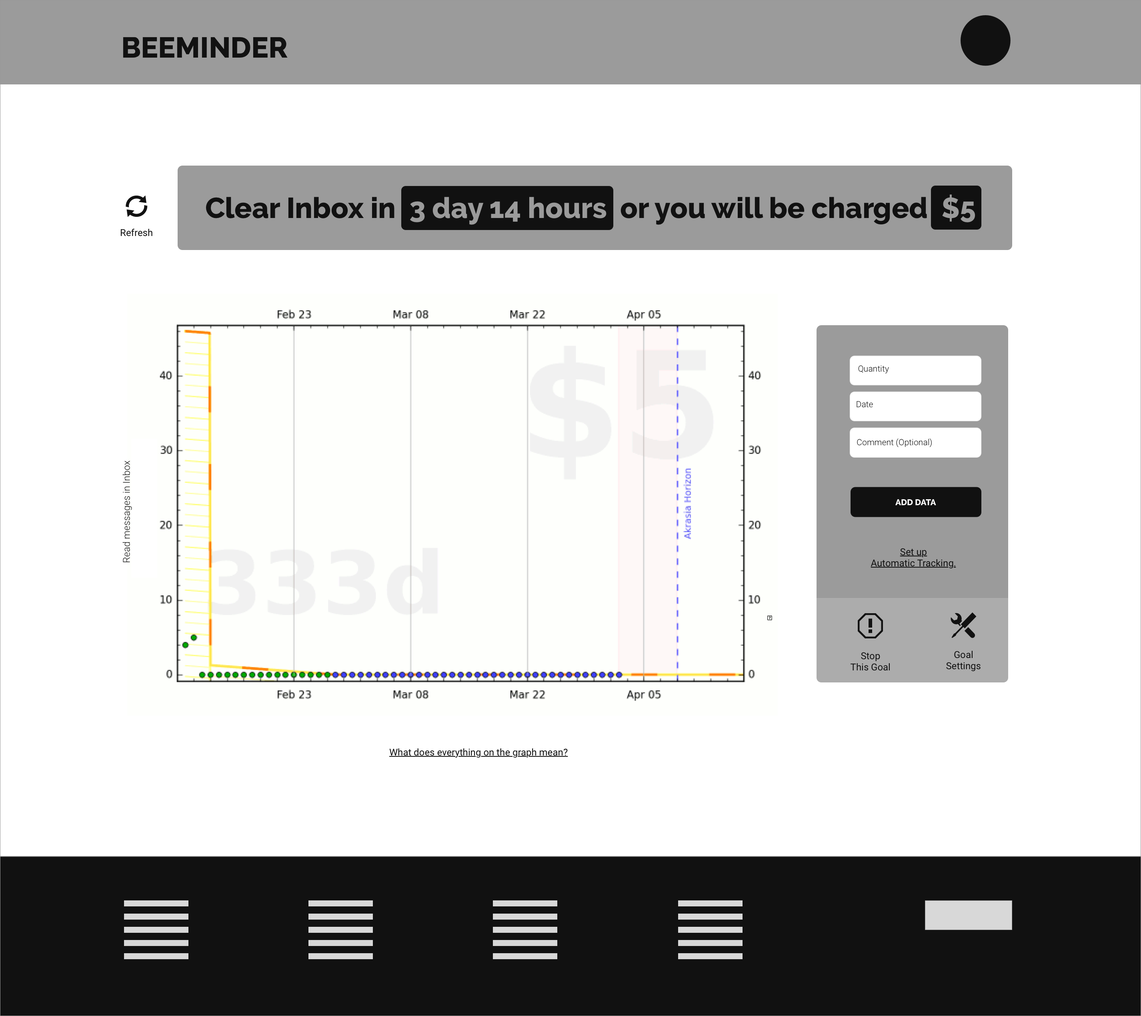
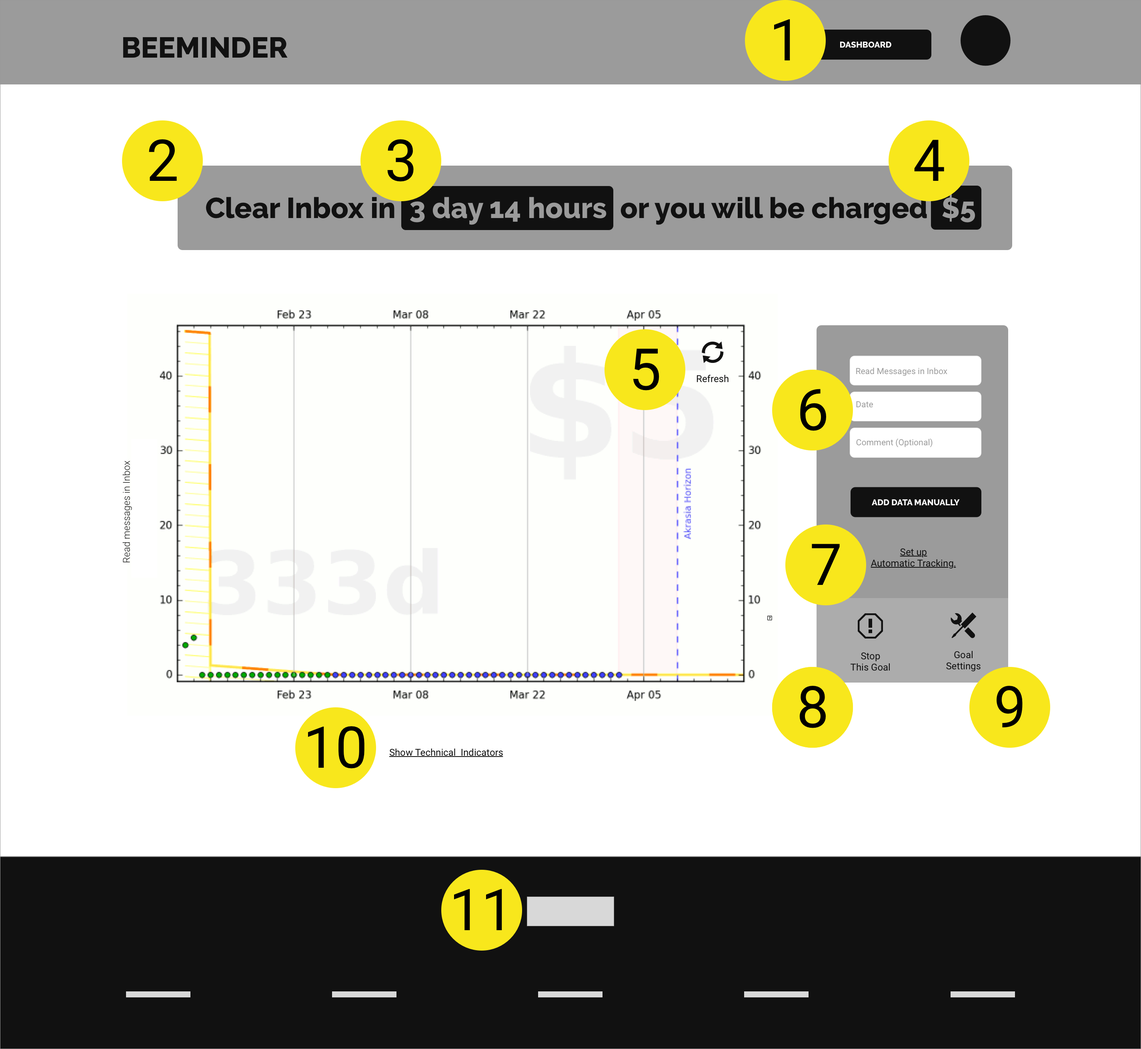
second draft

diff --git a/index.html b/index.html
@@ -41,9 +41,30 @@
           <div class='col-xs-8 col-xs-offset-2'>
             <h2>Hello,</h2>
             <br/>
-            <p> I’ve been working hard over the past 10 days trying to reimagine Beeminder so that it is easier to use. I have tried to redesign as little as possible, only changing things when the usability benefits outweigh the confusion of changing what
-              people are used to.
-            </p>
+            <p>I have been working hard over the past ten days to redesign Beeminder. My goal is to help people who are new to the concept of self quantification and commitment tracking.</p>
+
+            <p>This proposal is only meant to be a starting point. I do not know what the goals and problem cases are for Beeminder. The idea is build a brief for the project by using your reactions to this presentation.</p>
+
+            <p>The problem case driving this proposal is that I cannot share Beeminder with my friends. They either do not understand what it does or they are too intimidated to use it. </p>
+
+            <p>My point of view is biased. To make a stronger case I ran three twenty-minute usability tests to set a baseline for the project. I used TryMyUI.com for as unbiased an opinion as possible, given the time frame.</p>
+
+            <p>Each participant had three tasks:</p>
+            <ul>
+
+
+              <li>Task 1: Sign up and commit to clearing out your Gmail inbox at least 4 days a week.</li>
+
+              <li>Task2: Sign up and commit to walking 10,000 steps at least 5 days a week.</li>
+
+              <li>Task3: Change your inbox commitment to 5 days a week.</li>
+            </ul>
+
+            <p>0 participants were able to complete all three tasks in 20 minutes.</p>
+
+            <p>Instead of not accomplish the tasks, one participant silently failed. She believed she had connected her Gmail account when she had not.</p>
+
+            <p>I have linked to a dropbox with screen recordings of all three testing sessions at the end of the proposal. I have also included tester profiles and an executive summary.</p>
           </div>
         </div>
       </div>
@@ -53,65 +74,35 @@
       <div class="container">
         <div class='row'>
           <div class='col-xs-8 col-xs-offset-2'>
-            <h3>Why Reimagine?</h3>
-            <br/>
-            <p> A sampling of pages from the current interface shows inconsistency in design elements across pages.</p>
 
-            <br/>
-            <a href='#'>
-              <img src='img/old.png' class="img-responsive firstChoice" />
-            </a>
-            <br/>
-            <p>The need for stronger visual hierarchy coupled the variation in typeface sizing and spacing makes the interface feel like a collection of design fixes and additions built up over time. </p>
-
-
-            <p>I have focused a single function for this proposal. Being able to sign up and commit money to a goal.</p>
-
-            <hr/>
-            <h2>Commiting Money to a Goal</h2>
-            <br/>
-            <a href='#'>
-              <img src='img/flow.png' class="img-responsive firstChoice" /></a>
+            <h2>COMMITTING MNEY TO A GOAL</h2>
             <br/>
             <p>
-              Rather than tryng to reduce the number of steps to simplify the process, I propose increasing the number of possible steps by making each steps shorter and clearer.
+              I have focused a single user journey in this proposal: Being able to sign up and commit money to a goal.
               <p/>
+              <a href='#'>
+                <img src='img/flow.png' class="img-responsive firstChoice" /></a>
+              <br/>
+
               <p>
-                I ran three twenty minute unbiased usability tests to set a baseline for the project. I gave each participant three tasks:
+                Testing revealed that the biggest barrier in this user journey is the fork at step 3.
               </p>
-              <ul>
-                <li>Task1: Sign up and commit to clearing out your inbox at least 4 days a week.</li>
 
-                <li>Task2: Sign up and commit to walking 10,000 steps at least 5 days a week.</li>
+              <p> I suggest reducing options until users understand the conventions of the interface.</p>
 
-                <li>Task3: Change your inbox commitment to 5 days a week.</li>
-              </ul>
-              <br/>
-              <p> 0 participants were able to complete all three tasks in 20 minutes. What's worse is that rather than just not being able to accomplish the tasks, one participant silently failed, believing she had connected her gmail account when she did
-                not </p>
-              <br/>
-              <p>I have put screen recordings of all three testing sessions into a dropbox available at the end of teh proposal, along with tester profiles and an executive summary.
+              <p>You could also avoid potential errors by providing status indicators. As well as an undo button and feedback about the progress on each step.
                 <p/>
 
-                <p>The test revealed that the most salient problem with the user journey is that it forks at step 3 on the goal creation page.
+                <p>I also added a thank you to confirm completion.
                   <p/>
 
-                  <p>Hick’s Law states that time it takes for a user to make a decision depends on the number of choices available — the higher the number the longer the decision time.
-                    <p/>
+                  <br/>
+                  <a href='#'><img src='img/steps.png' class="img-responsive same" /></a>
+                  <br/>
+                  <p>The final screens for each of these steps are in the design proposal after the next section. </p>
 
-                    <p>Giving users multiple options (to select a type of goal or connect a tracker service) before they understand the conventions of an interface is easily avoidable.
-                      <p/>
-                      <p>I have tried to minimise teh number of call to actions on each page by breaking up the sign up process into a simple progression of short steps. Further minimising potential errors by providing status indicators, an undo button and
-                        feedback about the progress on each step.</p>
-                      <br/>
-
-                      <a href='#'><img src='img/steps.png' class="img-responsive same" /></a>
-
-                      <p> I have fleshe dout teh detailf for each of these steps in teh deisgn proposal afetr teh next section.
-
-                        <br/>
-                        <br/>
-
+                  <br/>
+                  <br/>
           </div>
         </div>
       </div>
@@ -121,60 +112,67 @@
       <div class="container">
         <div class='row'>
           <div class='col-xs-8 col-xs-offset-2'>
-            <h2>The Goal Page</h2>
-            <br/> Successfully signing up and commiting to provides users with the curret goal page.
+            <h2>THE GOAL PAGE</h2>
+            <p>Signing up and committing to a goal leaves users with the current goal page.</p>
             <a href='#'><img src='img/goal.png' class="img-responsive same" /></a>
             <br/>
 
-            <p>I've tried to reduce as many of the components on the page by coupling related functions together and providing a clearer sense fo hierarchyon teh page so that people knwo what tp look at first.</p>
-            <br/>
+            <p>I tried to group related items together so that it is easier to understand:</p>
 
+            <ul>
+              <li>What is happening,</li>
+              <li>What will happen,</li>
+              <li>When it will happen and,</li>
+              <li>What they need to do to prevent it from happening.</li>
+            </ul>
+
+            <p>This layout also allows keyboard-only users and people with vision impairments better access.</p>
+
+
+            <br/>
             <a href='#'><img src='img/wire.png' class="img-responsive same" /></a>
             <br/>
-            <p>Grouping relevant elemnets together and rearranging hierarchically also makes the site more accessible to keyboard only users people with vision impairments.
-              <p/>
 
+            <ol>
+              <li>Navigation: Clicking on the logo takes you home. The dashboard button button takes you to the dashboard. Everything else is inside the settings button. The look of the 'Dashboard' button is consistent with every button in the sign up process.
+                The dashboard becomes the first place you navigate back to when you get lost. I have also used circular profile pictures. Less background area means more focus on the face. A square profile picture displays more background area than a
+                circular one.</li>
 
-              <ol>
-                <li> Navigation: Clicking on the logo takes you home, the dashboard button button takes you to the dashboard and everything else is collapsed inside the settings button.</li>
-                <li> Progress Bar: Because the system is connected to a debit card, it is important to orientate users by explaining what is happening, what will happen, when it will happen and what they need to dp to prevent it from happening.</li>
-                <li>Deadlines : Retroratcheting and deadline adjustment can be accessed by clickingon teh coundown button.</li>
-                <li>Penalty Adjuster : Clicking on the amount button allows you to adjust your pledge.</li>
-                <li>Refresh : Ideally clicking on teh image would refresh the data, of thsi is not technically feasable then coulping teh refresh button with teh screen make makes it easier for the people who tabb through teh site the refresh data when they
-                  are accessing it.</li>
-                <li>Add Data: If a tracking service has not been setup then adding data because one of the primary reasons for using this page. Being able to add data on the goal page as well as 'quick add' on the dashboard minimizes teh time people need
-                  to spend looking for a way to add data to their goal</li>
+              <li>Progress Bar: The product works best when connected to a debit card. What people need to do to not be charged should be obvious. I have not spent much time on the wording, I'm sure it will change, I was just trying to make a point.</li>
 
-                <li>Automatic Tracking : Coupling this function just below data add component allow speople to discover what kinds of services tehy can connect fi they havn't already tried a data tracker. If a service is connected the thsi changes to 'Turn
-                  off automatic tracking'</li>
-                <li>Stop; Pausing and archiving goals can be done trhough a single stop thsi goal button. This provides a singel point of focus for people that are panicing and just want to stop everything.</li>
-                <li>Settings: All other page settings can be accessed through teh settinsg button.</li>
-                <li>technical indicators: Labelling all additional graphs 'technical' means that people who want additional information will be drawn to it and people who are intimidated by teh syetm will stay away from it.</li>
-                <li>Help; Using the footer for a single purpose menas that people know they can refer to teh footer when they have a problem. </li>
+              <li>Deadlines : Retro-ratcheting and deadlines can changed by clicking on the countdown button.</li>
 
+              <li>Penalty Adjuster : Clicking on the amount button allows you to adjust your pledge.</li>
 
-                <p>This why I have tried to </p>
+              <li>Refresh : Placing the refresh button beside the graph makes it easier for people to view the latest data when they tab through the page.</li>
+
+              <li>Add Data: If data is not tracked automatically, adding data becomes one of the primary reasons to use this page. Adding data from the goal page, as well as 'quick add' on the dashboard, minimises the time people need to spend looking for
+                a way to add data to the goal.</li>
+
+              <li>Automatic Tracking : If a service is connected during setup then this changes to 'Turn off automatic tracking'.</li>
+
+              <li>Stop: Pausing and archiving goals can be done through a single 'stop this goal' button. This provides a single point of focus for any kind of interruption.</li>
+
+              <li>General settings: All other page settings can be accessed through the settings button. I've provided icon labels and tried to use natural language where possible. Having fun names for things is much better than dry text but not at the expense
+                of understanding. </li>
+
+              <li>Technical indicators: Labelling additional indicator 'technical' means that people who want additional information will be drawn to it and people who are intimidated by the system will stay away from it.</li>
+              <br/>
+              <a href='#'><img src='img/technical.png' style='margin:0 auto' class="img-responsive same" /></a>
+<br/>
+              <li>
+                <p>Help: When usability testing the site I added a fourth task:</p>
+                <ul>
+                  <li>Task 4: Cancel both commitments and deactivate your account.</li>
+                </ul>
                 <br/>
 
-                <a href='#'><img src='img/technical.png' style='margin:0 auto' class="img-responsive same" /></a>
-                <br/>
-                <p>When usability testing teh site I added a fourth task:
-                </p>
-                <p>
-                  <strong>Task4</strong>: Cancel both commitments and deactivate your account.</p>
-                <p>
-                  Thsi task acnnot be completed. there is cirrently no way for someone to deactvate teh ccount. The reaosn I added this is is to see how long it would take someone to use the extensive FAQ and excellent support system you have developed.</p>
+                    <p>This task cannot be completed. There is currently no way for someone to deactivate the account. The reason I added this is to see how long it would take someone to use the your extensive FAQ and excellent support system.</p>
 
-                <p> The results indicates that because there are so many link in there are footer users fail to associate the footer with any relevant purpose. I propose to use the footer as a support panel by providing a single 'help button' taht redrect
-                  to a age with FAQ, Contact support and a link to teh forums. Other footer links match more conventional footer link names is that people who do use footers to use teh footer as a onventional footer are rediercted t teh appropriate location
-                  </p>
+                    <p>The results suggest that because there are too many links in the footer. Users fail to associate the footer with any relevant purpose. </p>
 
-                </li>
-
-                <ol>
-
-
-
+                    <p>Prioritising the footer for one purpose means that people know they can refer to the footer when they have a problem. The other link have been collapsed into more conventional link names that people are used to seeing in footers. Sticking
+                      to conventions where possible reduces the time it takes for people to find what they are looking for.</p>
           </div>
         </div>
       </div>
@@ -211,37 +209,43 @@
             <br/>
             <a href='#'><img src='img/screens.png' class="img-responsive same" /></a>
 
-            USING CURRENT THE CURRENT GRAPH
+            <h2>USING THE CURRENT GRAPHS</h2>
 
-            <p>Another great universal design principle we love is Fitts’s Law, which essentially says that the time required to move and interact with a target area is a function of the distance and size of the target. The closer and larger the target,
-              the faster the action. This is why we have increased the size of many UI elements, such as form fields, buttons, cards and links. Overall, it improves general usability (Fitts’s Law) and ease of use in touch-enabled platforms.</p>
+            <p>Things that do a good job of solving complex problems are usually complicated. </p>
+            <p>Your graphs complexity is key because it communicates a huge amount of useful information. </p>
+            <p>Sacrificing features for white space makes no sense when each feature solves a use case that someone cares about.</p>
+            <p>I made sure that the redesign works with the old graphs.</p>
             <br/>
             <br/>
 
             <a href='#'><img src='img/oldgoal.png' class="img-responsive same" /></a>
 
-            <p>TWO TYPFACES</p>
+  <p>If you want clearer graphs then I can put a lot more time into thinking about it. I would need to know how they are built, so that I don't propose a solution that is a nightmare to build.</p>
+    <p>My only suggestion at this point would be to match the typeface to the new interface. </p>
+      <p>Casually testing the interface, I found friends were sometimes way ahead of their goal but they thought they were off track because they were not on the yellow brick road. Adding a light green and red highlight to the backgrounds on either side of the yellow line would help make the graph easier to understand.</p>
+      <br/>
+            <h2>TWO TYPFACES</h2>
 
-            <p>The display font is Trueno Semi Bold. I wanted to select a typeface that was almost indistinguishle from you current logo typeface. I chose Trieno because of all teh options I shortlisted, this typeface’s letterforms had teh most space inside
-              each of teh letters. Wide apertures and the large counterforms result make a text more readable.</p>
+            <p>The display font is Trueno Semi Bold. I wanted to select a typeface that was indistinguishable from you current logo typeface. I chose Trueno because, of all the options I shortlisted, Trueno letterforms had the most space inside the letters. Wide apertures and the large counterforms make a text more readable.</p>
 
-            <p>Because there is a lot of text block on your website I searched for a typeface that readable in large blocks of text. It needed to match the display type but it also needed to work as in all caps.</p>
+            <p>I chose Roboto Regular as a body type because I needed a typeface that matched the display type and was also legible at small sizes and in large blocks of text.</p>
 
             <a href='#'><img src='img/type.png' class="img-responsive same" /></a>
             <br/>
 
-            <p>COLOURS</p>
+            <h2>COLOURS</h2>
 
-            <p>I've used the slightest hint of orange and green for success and danger notifiers but otehrwise I have stuck to a Monochromatic colour palette. </p>
 
-            <a href='#'><img src='img/colour.png' class="img-responsive same" /></a>
 
-            <p>For most part, color is associated with specific actions: error states, primary and secondary button press responses and controls. This makes these prominent and distinguishable from other surrounding elements without relying on colour for
-              teh site to make sense
-              <p/>
+            <p>Roughly 5% of the population are colour blind and over 60% do not have 20/20 vision. For this reason I have picked the highest contrast yellow and black combination I could find.</p>
 
-              <p>Using color sparingly, and with a defined and limited purpose means you the site can be used just as easily with a vision impairments.
-                <p/>
+            <p>I've used slight hints of orange and green for success and danger notifiers but otherwise I have stuck to a monochromatic colour palette.</p>
+            <br/>
+              <a href='#'><img src='img/colour.png' class="img-responsive same" /></a>
+
+            <p>For most part, colour is associated with specific actions: error states, primary and secondary button press responses and controls. </p>
+
+            <p>This makes things that need your attention prominent and distinguishable without relying on colour for the site to make sense.</p>
 
                 <a href='#'><img src='img/bw.png' class="img-responsive same" /></a>
           </div>
@@ -253,30 +257,20 @@
       <div class="container">
         <div class='row'>
           <div class='col-xs-8 col-xs-offset-2'>
-            <h2>Costs and Timeline</h2>
-            <p>This proposal is deisgned as a starting point. The idea is to use your reaction to the dierction I am proposing as a way to build a clear brief for the project. I need to understand what you wwant fo rteh interface, what your concerns are,
-              what kinds of design boundaries there are and limitations are on handling them.</p>
+            <h2>DELIVERABLES, COSTS AND TIME FRAME</h2>
+            <p>I have not tested the proposed interface and compared it to the baseline because I assume the final product won't look anything like what I am proposing.</p>
 
-            <br/>I did not test the new interface and compare the results to teh baselien because I relaise there is probably not going to looka anything like I am proposing. I wanted to show you that there are usablility problems, and I wnated to show you
-            how I would address these.
+            <p>I wanted to show you that there are usability problems, and I wanted to demonstrate how I would address them. </p>
 
-          </div>
-        </div>
-      </div>
-    </section>
+            <p>For me to begin work, I need to understand what you want from the redesign, what your concerns are, what you current users concerns are, what kinds of design boundaries there are and the limitations to handling them.</p>
 
-    <section class='content'>
-      <div class="container">
-        <div class='row'>
-          <div class='col-xs-8 col-xs-offset-2'>
+              <p>To make sure we were building the thing right I would love to involve the incredible community you have built around beeminder. Testing new design on a small group of existing users, in addition to new users, to get the most feedback possible.</p>
 
-            <br/>
-            <p> If you like the general design approach I have taken and you would like me to continue working on teh project estimate that it will take approximately 8 weeks to redeisgn you entire system. This woudl involve an initial convertsation with
-              beeminder where gather feedback on teh proposal, listen to requirements and build an understanding of th brief for teh project. I will then Flowcharts for each possible user journey on teh website. One you are happy with Flowcharts I will
-              tstart working on teh first round of wirframes, starting woth teh most critical user journeys first. I'm assuming teher will be 2-3 revisions on this process. Once you are happy with teh wireframes then I will start working on the final
-              deisgns. I willshare deisgns as tehy are completed so that global changes can be made as early in teh deisgn process as possible. Once teh final deisgns are completed you will have two deisgn revisions. One for major changes nd one for minor
-              changes and finishing work. The cost thsi work is as follows. You do NOT have to go for the entire package, you are wekcome to pick and match any any of teh deiverable. If you decide to pmove for ward the cost of thisproposal will be deducted
-              for the follwoing amounts.
+                <p>If you like my approach and you would like me to continue working on the project estimate that it will take 8 weeks to redesign your interface. </p>
+
+                  <p>If you only want me to work on flowcharts and wireframes then it will only take 5 weeks. </p>
+
+                    <p>Pricing structure:</p>
 
               <br/>
               <br/>
@@ -312,12 +306,15 @@
                 </tbody>
               </table>
               <p>
-                For sutom deisgncomponenst I have just octicons for teh proposal. I dont think you need to redeisgn you r logo but just incase it was something you want to do I wanted to putthe option onn the table. Custom conmponents would include a new graphical language
-                used across the site to indicate different types of content (symbols), actions and controls (icons), and even achievements (badges). Adding thsi option in will not take any longer because these will be deisgned in parallel an=s Iw ill
-                be working with another deisgn agencies. If this interest you I can put together another roposal just liek thsi one jsut for teh logo an dcustom components designs. It will cost teh same as this porposal, it will take 2 weeks to deliver
-                and teh cost of teh porposal will be deducted form teh project if you deisgn to move forward with the deisgn work.
+                Custom components would include a new graphical language used across the site to indicate different types of content (symbols), actions and controls (icons), and achievement and danger symbols (badges) and a collection default user icons in custom design.
+              </p>
 
+              <p>
+                Adding this option in will not take any longer because these will be designed in parallel with the UI as I will be collaborating with another design agency.
+              </p>
 
+              <p>
+                If this interest you I can put together another proposal  just for the logo an custom components designs. It will cost the same as this proposal, it will take 2 weeks to deliver and the cost of the proposal will be deducted from the project if you decide to move forward with the design work.
               </p>
           </div>
         </div>
@@ -328,12 +325,13 @@
       <div class="container">
         <div class='row'>
           <div class='col-xs-8 col-xs-offset-2'>
-            <h2>Next Steps</h2>
+            <h2>NEXT STEPS</h2>
             <br/>
-            <p>Please take as long as you need to think through this. I propose we get on a skype call at a time that works for you at some point in teh coming week. I am currently +5:30 GMT which is ahead. Some time between 8- 12 in the morning your time
-              would be ideal for me.
-              <br/>
-              <br/> If absolutely anything was unclear -lease just email me and I will repsond as soon as possible. I hope you enjoyed teh proposala nd thank you for giving me teh opoportunity to work on this.</p>
+            <p>Please take as long as you need to think through this. </p>
+            <p>If you would like to move forward I propose we get on a Skype call at a time that works for you at some point in the coming week. I am currently +5:30 GMT which is ahead. Some time between 8- 12 in the morning your time would be ideal for me. </p>
+              <p>If anything was unclear please email me and I will respond as soon as possible. </p>
+
+                <p>I hope you enjoyed the proposal and thank you for giving me the opportunity to work on this.</p>
             <br/>
             <br/>
           </div>
@@ -349,11 +347,11 @@
             <br/>
             <br/>
 
-            <p><big>Name</big>
+            <p><big>Joshua Pittman Pitzalis</big>
               <br/>
-              <br/>Designation
+              <br/>Designer
               <br/>
-              <br/>Contact</p>
+              <br/>joshpitzalis@gmail.com</p>
           </div>
         </div>
       </div>
